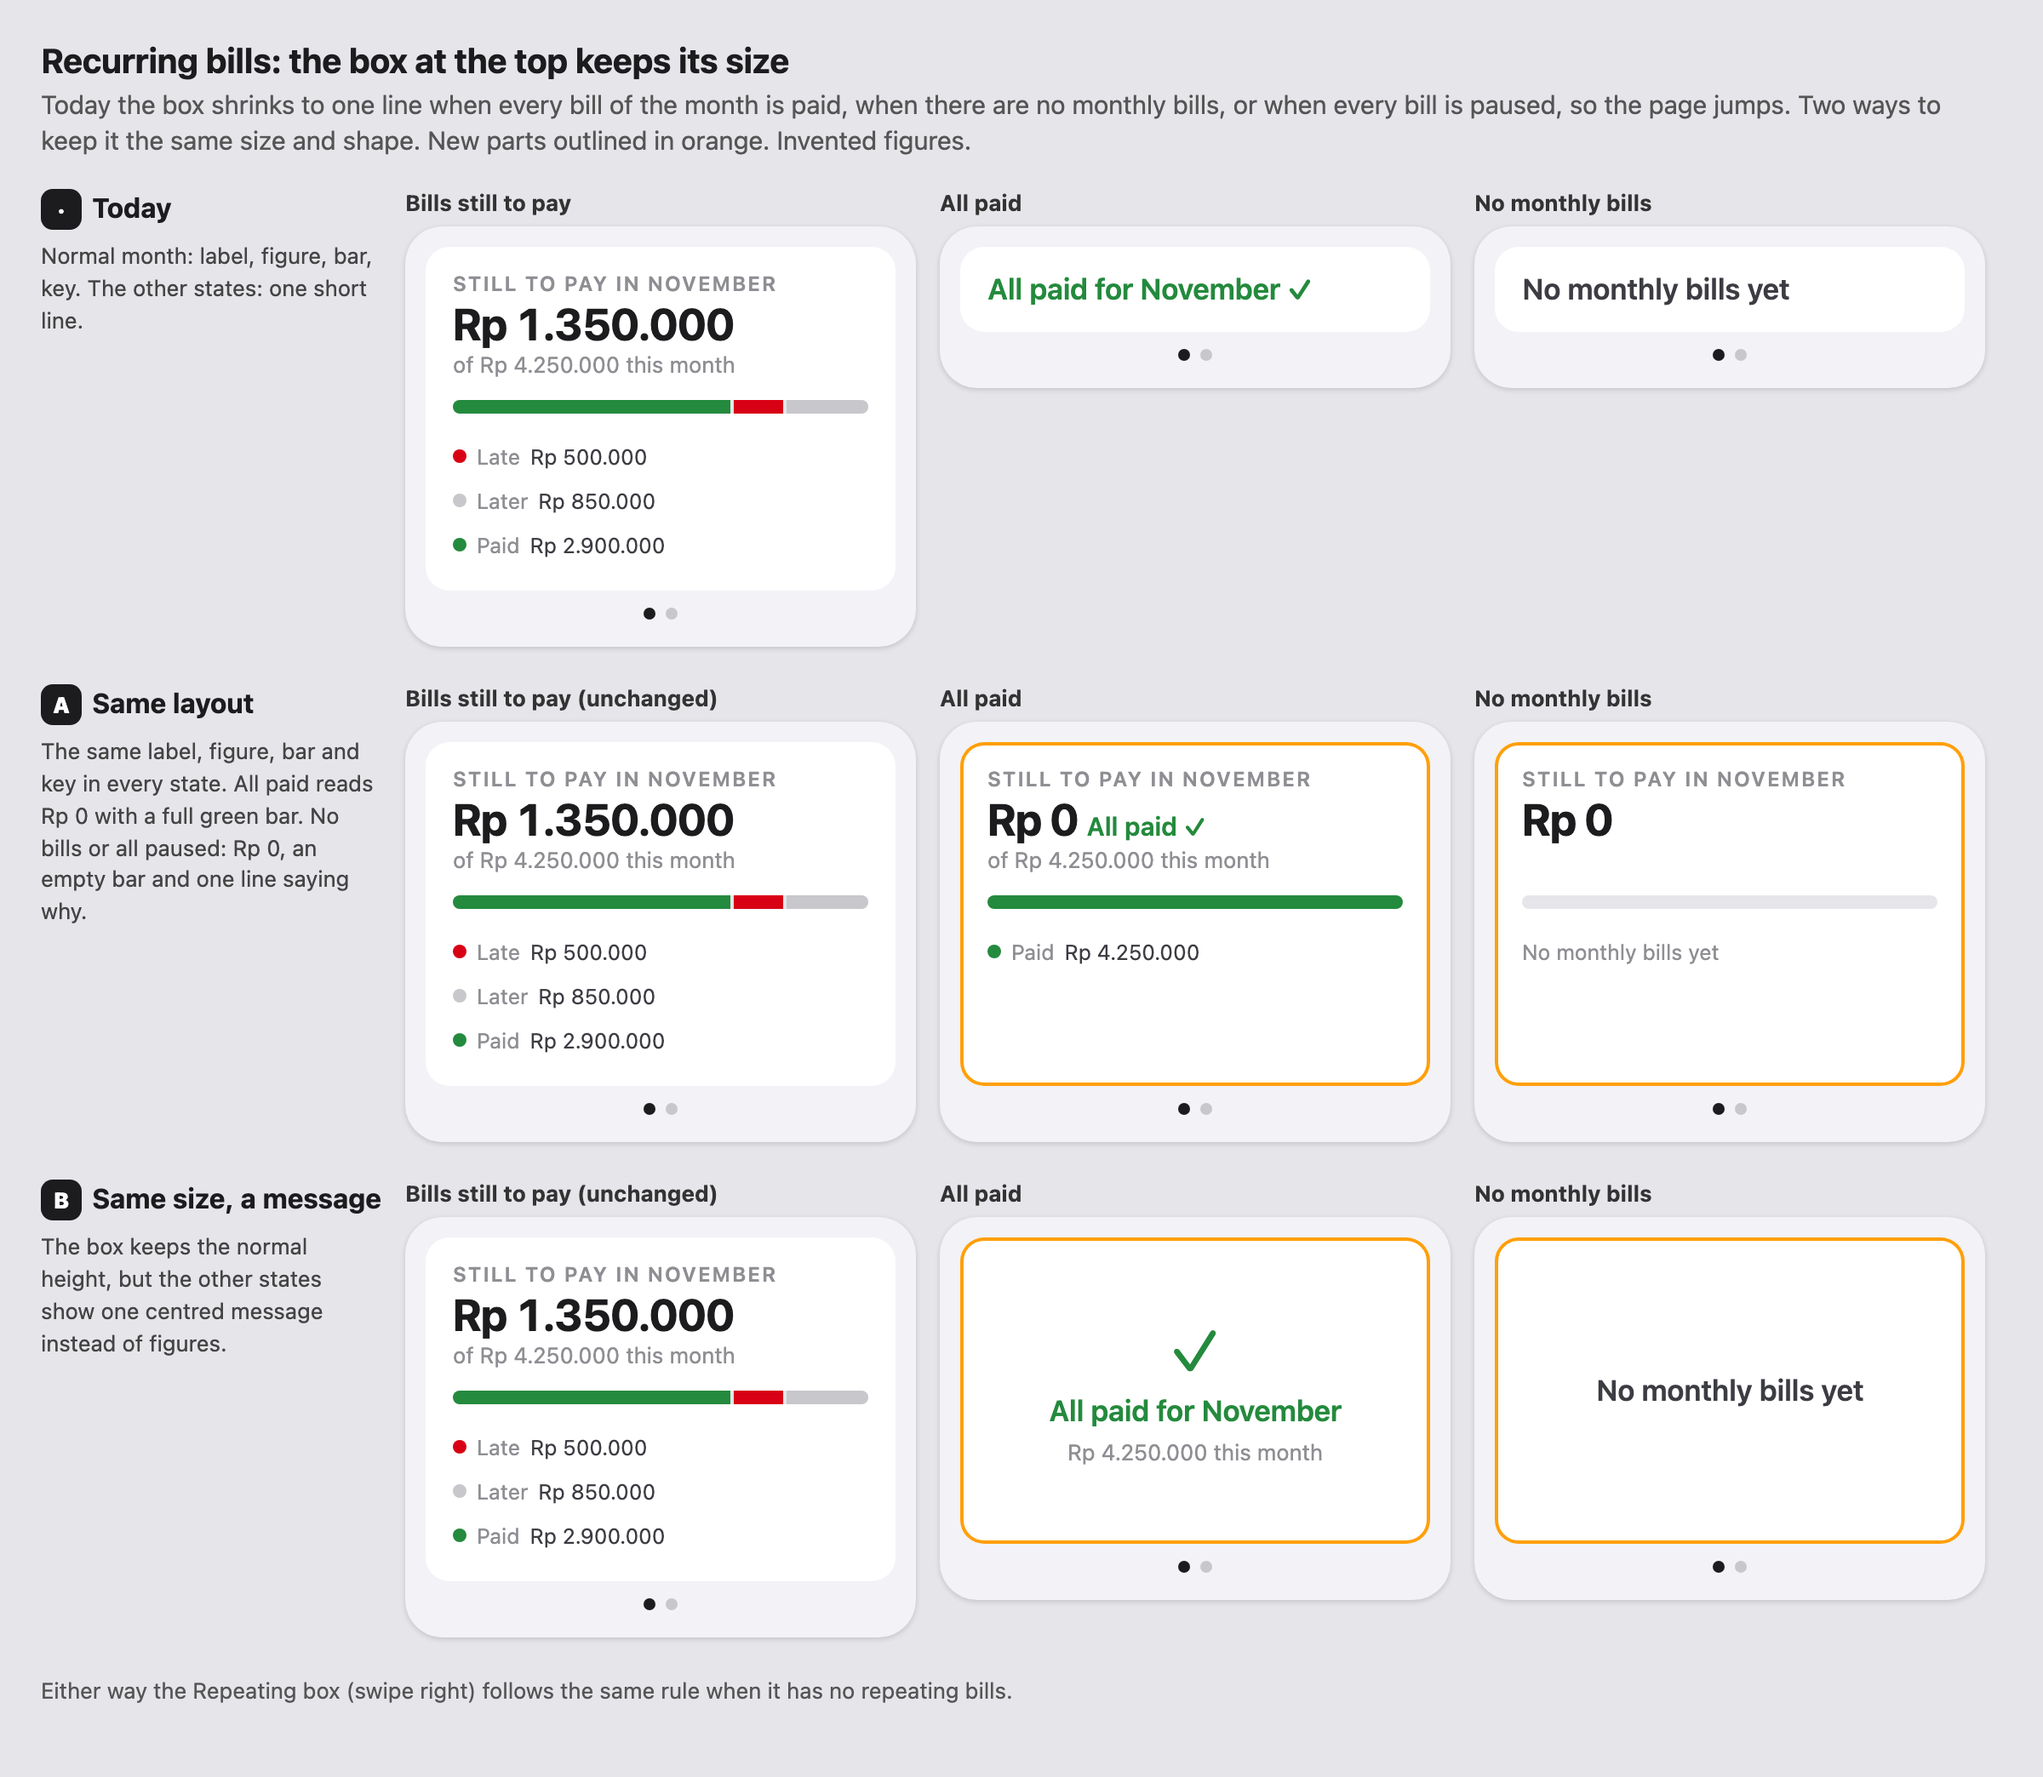
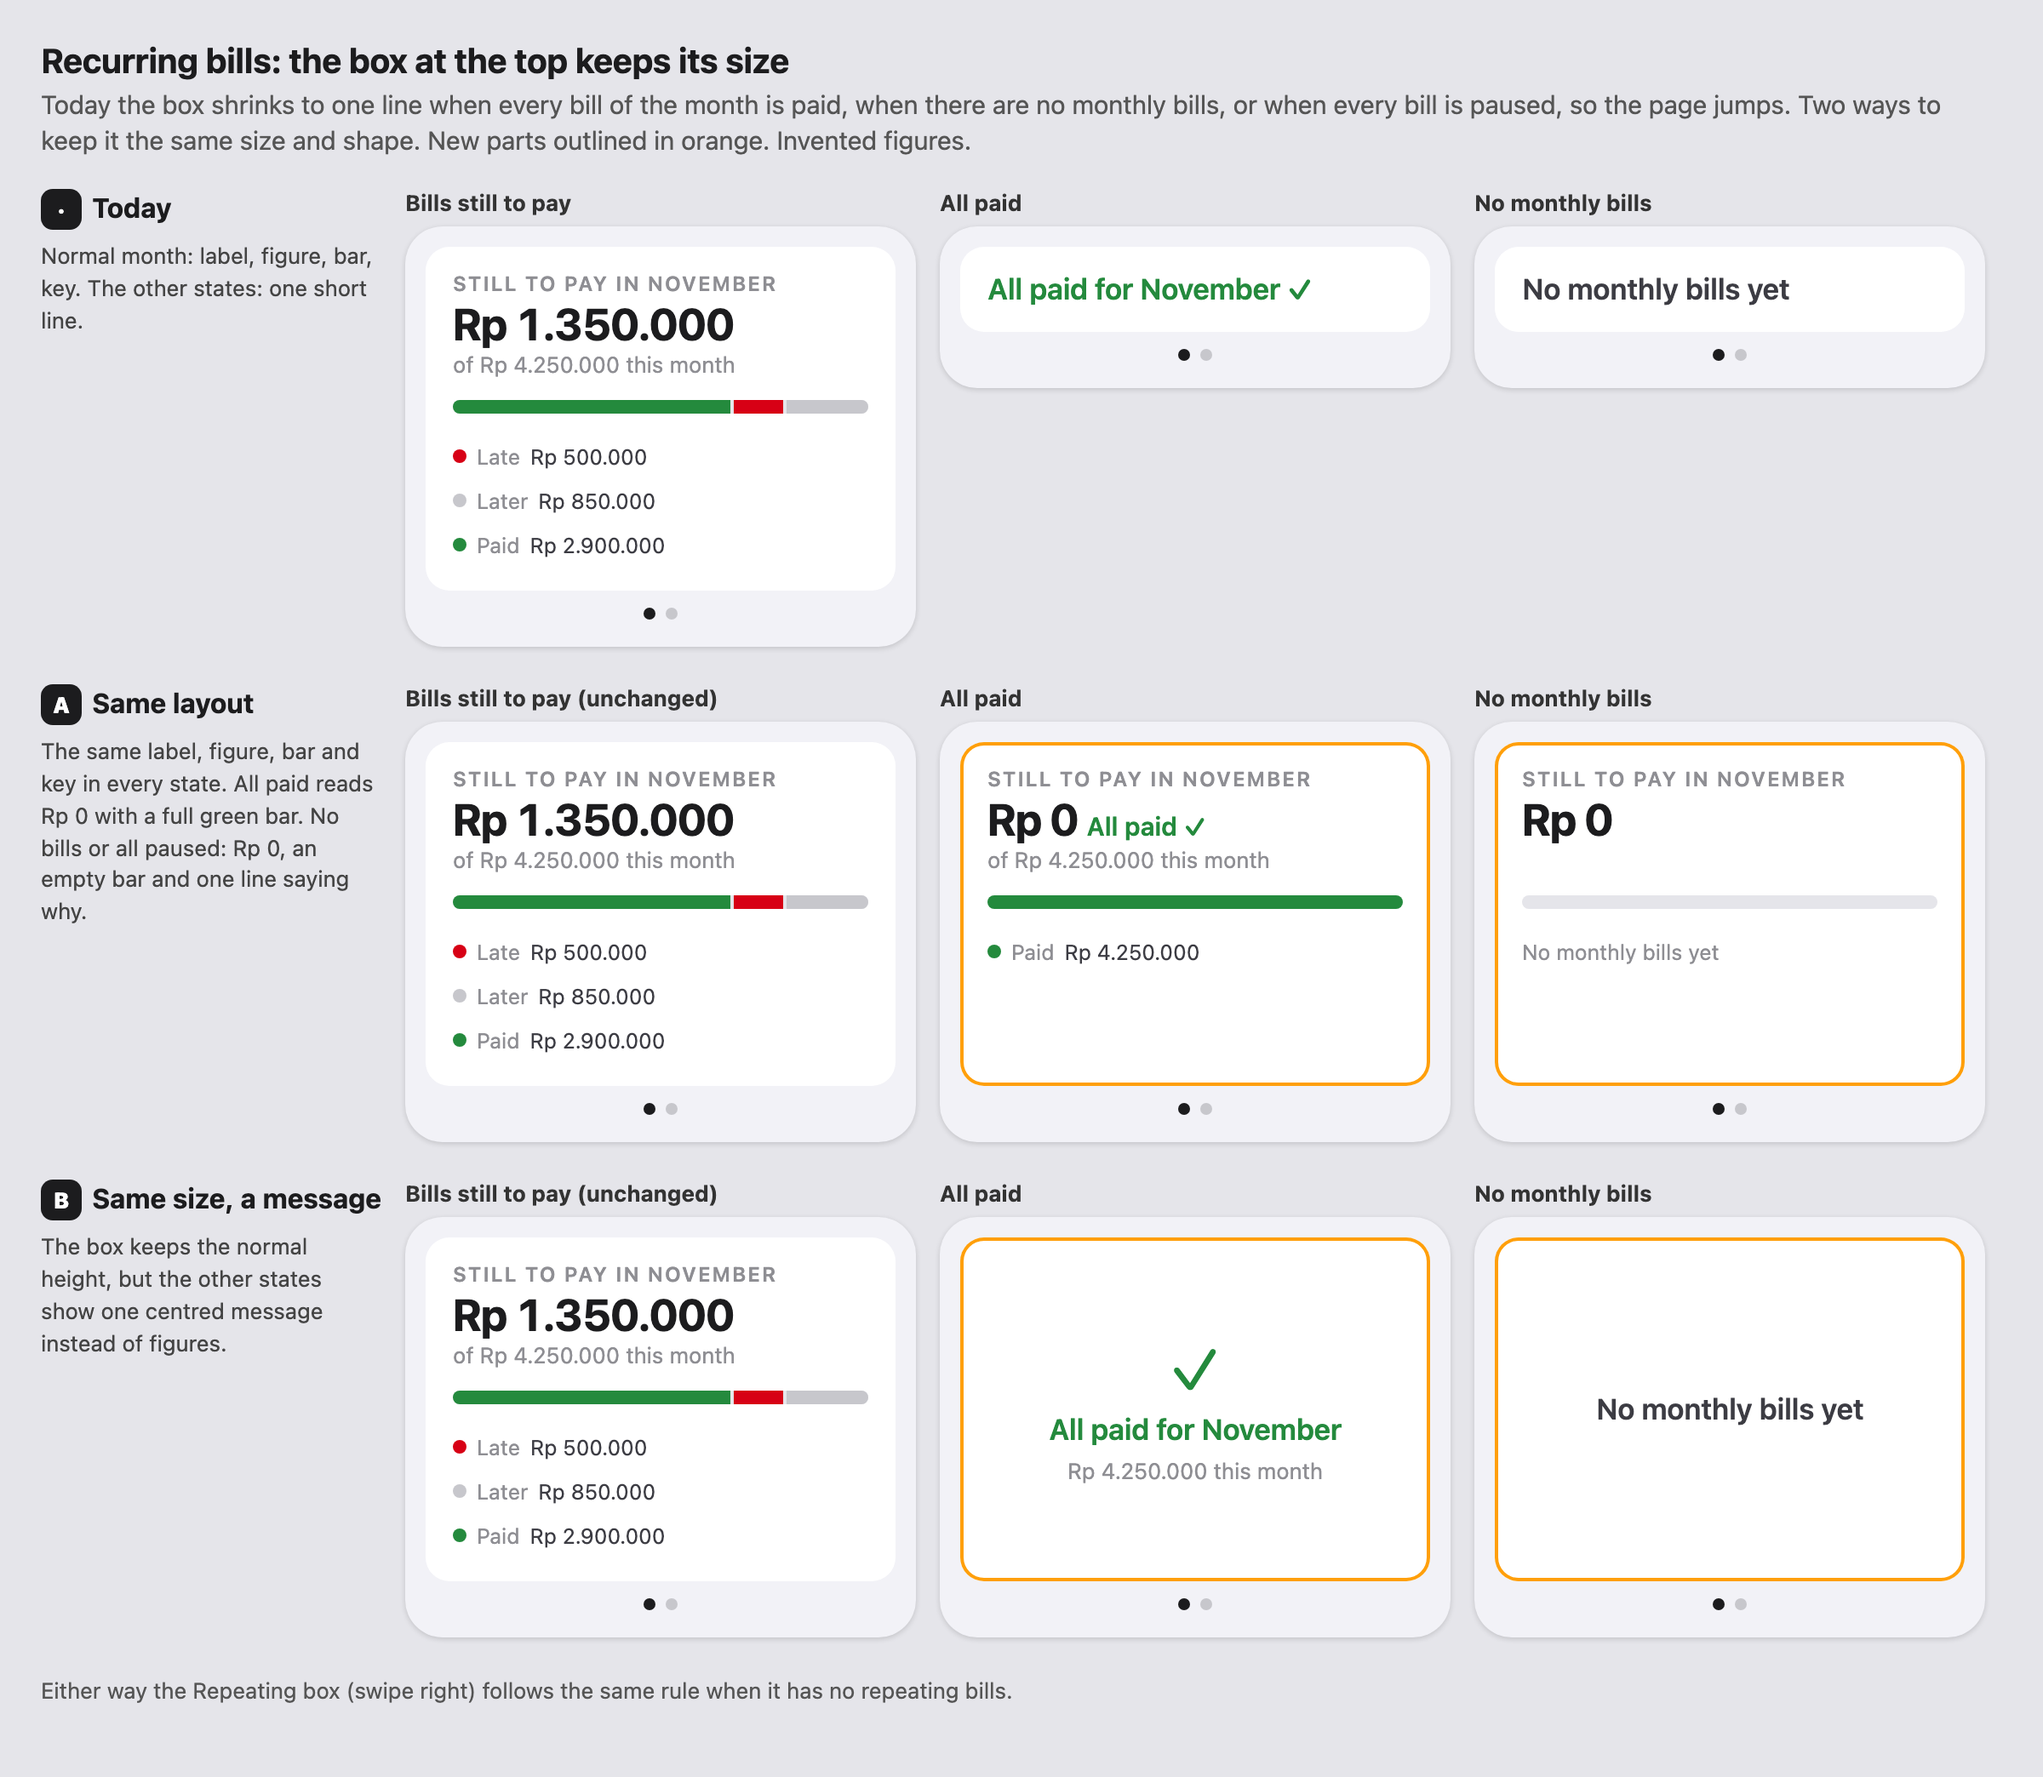
Mockup: bills hero B at the same height

diff --git a/docs/mockups/2026-11-22-bills-hero-same.html b/docs/mockups/2026-11-22-bills-hero-same.html
@@ -22,7 +22,7 @@
   .dots { display:flex; justify-content:center; gap:6px; margin:10px 0 4px; } .dots i { width:7px; height:7px; border-radius:50%; background:#c7c7cc; } .dots i:first-child { background:#1c1c1e; }
   .list { background:#fff; border-radius:12px; margin-top:10px; padding:12px 14px; color:var(--ink3); font-size:13px; }
   .new { box-shadow:inset 0 0 0 2px #ff9f0a; }
-  .center { min-height:180px; display:flex; flex-direction:column; align-items:center; justify-content:center; text-align:center; gap:6px; }
+  .center { min-height:202px; display:flex; flex-direction:column; align-items:center; justify-content:center; text-align:center; gap:6px; }
   .center .big { font-size:36px; line-height:40px; }
   .center p { margin:0; }
 </style></head>
